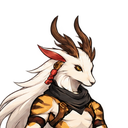
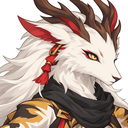
fix: replace approved Lushu square portrait

diff --git a/src/assets/manifest.js b/src/assets/manifest.js
@@ -1,6 +1,6 @@
 import {createAssetManifest,CHARACTER_SLOTS} from './schema.js';
 const entries=[
- {key:'lushu.portrait',type:'image',path:'assets/characters/lushu/portrait.png',width:128,height:128,bytes:23816,fallback:'placeholder.portrait'},
+ {key:'lushu.portrait',type:'image',path:'assets/characters/lushu/portrait.png',width:128,height:128,bytes:31664,fallback:'placeholder.portrait'},
  {key:'lushu.identity',type:'image',path:'assets/characters/lushu/identity.png',width:144,height:192,bytes:35708,fallback:'placeholder.portrait'},
  {key:'lushu.battleIdle',type:'image',path:'assets/characters/lushu/battleIdle-4f.png',width:384,height:128,bytes:70848,fallback:'placeholder.battle'},
  {key:'botuo.portrait',type:'image',path:'assets/characters/botuo/portrait.png',width:128,height:128,bytes:32501,fallback:'placeholder.portrait'},

diff --git a/WORK_PROGRESS.md b/WORK_PROGRESS.md
@@ -1,6 +1,7 @@
 # Work Progress
 
 ## CURRENT HANDOFF POINTER
+- **P1 鹿蜀 bounded portraitSquare correction — EXECUTABLE CHECKPOINT / PUBLIC VERIFICATION PENDING (2026-10-07).** Approved replacement resized whole1254×1254 source to128×128 PNG31664bytes; only portrait asset + manifest bytes changed. Targeted36/36, guard46files370521bytes/build/diff PASS. P1 identity/Arena and P2/P3/layout/projection/gameplay unchanged. Evidence: `docs/verification/M5C_B_LUSHU_PORTRAIT_REPLACEMENT.md`. Next: Pages/public technical verification then focused phone portrait smoke; STOP, no main merge.
 - **P3 赤鱬 STATIC RUNTIME + GLOBAL ARENA VERTICAL EXTENTS — PASS / PLAYER VERIFIED (2026-10-07).** Player completed iPhone smoke after deployed engineering verification and confirmed P3 presentation plus both Arena vertical edges are correct: top actor/head/overhead HP remain visible; bottom reach is acceptable. This closes the P3 Static Runtime Readability gate and the global vertical-extents defect. Canonical shared projection remains `topPadding=160`, `bottomPadding=32`, `yMin→160`, `yMax→508`, projected gameplay center y=334. P3 Static Asset Pack/runtime is closed and must not be reopened. **Next exact character gate: 九尾狐 Concept only.** No Work is needed until Chat/player complete the next art gate(s) and an executable integration delta exists.
 - **GLOBAL ARENA VERTICAL EXTENTS — ENGINEERING PASS / PLAYER SMOKE PENDING (2026-10-07).** Tested/deployed source `1d8340be1a18c3413307da54188770121ef87575`, Actions #801 /37555490830 CI609/609 + Build/Pages SUCCESS. Targeted43/43, guard/build/diff PASS. Shared top160 / bottom508 / center334 confirmed; actual Arena applyFrame P1/P2/P3 sprite + overhead HP tops remain inside canvas and sprite bottoms<=540. Public index-BmPcgSLb.js / index-DcqtNRF0.css / battleRuntime-BWB18qv_.js byte-identical to local build. Work changed no production source/tests/art/gameplay/UI. Older symmetric160/bottom380/center270 notes below are superseded. Evidence: `docs/verification/ARENA_VERTICAL_EXTENTS.md`. No technical blocker. Next: player phone checks top head/HP visibility and bottom reach only. STOP before all later art/motion gates; no main merge.
 - **GLOBAL ARENA VERTICAL EXTENTS — PLAYER DEFECT / CHAT SOURCE CORRECTION COMPLETE (2026-10-07).** Player clarified the lower edge also needs to remain reachable. The prior symmetric 160px vertical padding fixed top clipping but incorrectly reduced bottom reach to y=380. Chat replaced it with shared asymmetric presentation bounds: `topPadding=160`, `bottomPadding=32`, so gameplay `yMin→160` protects full formal actor + overhead HP while `yMax→508` lets bottom-anchored actors approach the lower stage edge without clipping. `arenaToStage()` remains the single mapping for actors/telegraphs/damage; gameplay bounds and mechanics are untouched. Arena center line/ellipse now use the projected gameplay center (`arenaToStage({x:5,y:0})`, y=334) so background geometry stays aligned with the shared projection. Regression tests lock top=160 / bottom=508 / projected center=334. **Remaining irreducible delta: targeted tests/build/deploy/public verification, then player phone checks both top and bottom reach.**

diff --git a/docs/STATE.md b/docs/STATE.md
@@ -4,6 +4,7 @@
 **M5C-B PRESENTATION BASELINE — PASS / PLAYER VERIFIED**
 
 ## Current state
+- **P1 鹿蜀 bounded portraitSquare correction — EXECUTABLE CHECKPOINT / PUBLIC VERIFICATION PENDING (2026-10-07).** Approved replacement resized whole1254×1254 source to128×128 PNG31664bytes; only portrait asset + manifest bytes changed. Targeted36/36, guard46files370521bytes/build/diff PASS. P1 identity/Arena and P2/P3/layout/projection/gameplay unchanged. Evidence: `docs/verification/M5C_B_LUSHU_PORTRAIT_REPLACEMENT.md`. Next: Pages/public technical verification then focused phone portrait smoke; STOP, no main merge.
 - **P3 赤鱬 Static Runtime + Global Arena vertical extents — PASS / PLAYER VERIFIED (2026-10-07).** Player iPhone smoke confirmed P3 Collection/Team/Arena presentation and both vertical edge behaviors. Top formal actor/head/overhead HP no longer clips; bottom reach is acceptable. P3 Static Runtime Readability is closed. Shared projection remains top160 / bottom32 / yMin160 / yMax508 / gameplay-center334. **Next exact character gate: 九尾狐 Concept only.**
 - **GLOBAL ARENA VERTICAL EXTENTS — ENGINEERING PASS / PLAYER SMOKE PENDING (2026-10-07).** Tested/deployed source `1d8340be1a18c3413307da54188770121ef87575`, Actions #801 /37555490830 CI609/609 + Build/Pages SUCCESS. Targeted43/43, guard/build/diff PASS. Shared top160 / bottom508 / center334 confirmed; actual Arena applyFrame P1/P2/P3 sprite + overhead HP tops remain inside canvas and sprite bottoms<=540. Public index-BmPcgSLb.js / index-DcqtNRF0.css / battleRuntime-BWB18qv_.js byte-identical to local build. Work changed no production source/tests/art/gameplay/UI. Older symmetric160/bottom380/center270 notes below are superseded. Evidence: `docs/verification/ARENA_VERTICAL_EXTENTS.md`. No technical blocker. Next: player phone checks top head/HP visibility and bottom reach only. STOP before all later art/motion gates; no main merge.
 - **Global Arena vertical extents — PLAYER DEFECT / CHAT SOURCE CORRECTION COMPLETE (2026-10-07).** Player clarified both edges: top must not clip formal actor/HP, while bottom-anchored actors must still reach near the lower stage edge. Shared projection now uses asymmetric presentation padding (`top=160`, `bottom=32`): `yMin→160`, `yMax→508`, projected gameplay center y=334. Arena center line/ellipse follow that projected center. Gameplay bounds/coordinates/combat mechanics remain unchanged. Remaining: executable verification/build/deploy, then player checks both edges on phone.

diff --git a/docs/verification/M5C_B_LUSHU_PORTRAIT_REPLACEMENT.md b/docs/verification/M5C_B_LUSHU_PORTRAIT_REPLACEMENT.md
@@ -1,0 +1,18 @@
+# P1 鹿蜀 PortraitSquare Replacement — 2026-10-07
+
+**Executable checkpoint — public deployment verification pending.**
+
+## Scope / asset
[1 lines of base64/hex data omitted]
+
[1 lines of base64/hex data omitted]
+
+Production delta is PNG replacement plus manifest bytes only. P1 portraitSquare resolves `lushu.portrait`; collectionArt remains `lushu.identity`144×192; battleIdle remains `lushu.battleIdle`, single static F1 descriptor. No catalog/loader/UI/layout/mirror/projection/gameplay changes; all other assets unchanged.
+
+## Executable checks
+36/36 PASS: assetManifest, formalCatalog, assetMenu, collectionView, teamView, battleHud, assetGuard. Guard46 files370521 bytes PASS. Build/diff PASS. No tests changed or broad local suite run.
+
+## Surfaces / stop
+Consumers: Battle HUD ally/enemy portraits, Team lower compact roster/bench, Collection grid and equivalent portraitSquare consumers. Team upper and Collection Detail remain collectionArt; Arena remains battleIdle. Shared enemy mirror retained.
+
+Next: feature-branch Pages deployment, public PNG/bundle byte comparison and bounded surface technical verification; then docs closure. No main merge or later character/motion/action/VFX work. Player phone checks Collection cards, Team lower cards and both HUD sides only.
